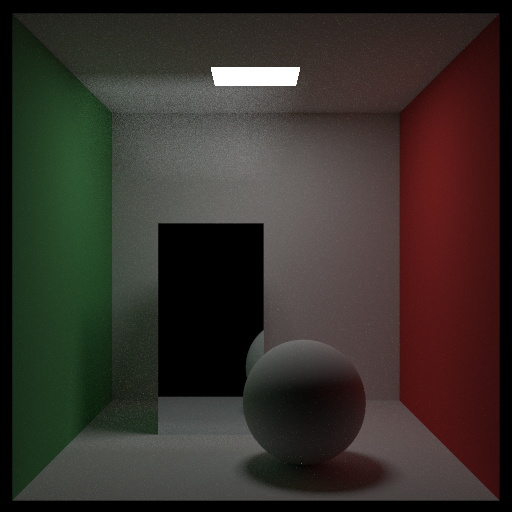
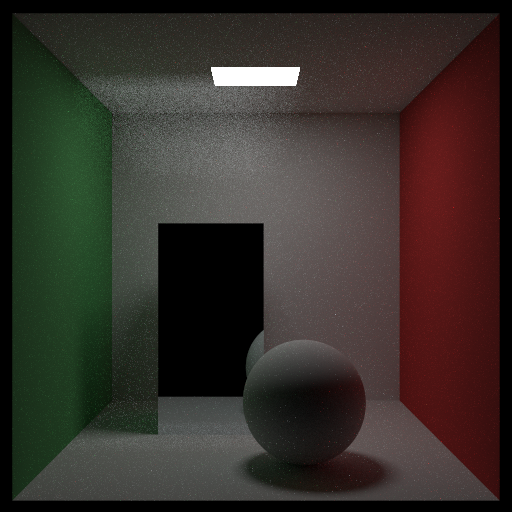
Add image of different samples

Changed region(s): [[0.1875, 0.1562, 0.5312, 0.2812]]

diff --git a/README.md b/README.md
@@ -1,4 +1,11 @@
 # Ray Tracing In One Weekend
 
-### Final Image
-![alt text](https://github.com/Guo-Haowei/RayTracingInOneWeekend/blob/master/image.png)
+## Final Images (Cornell Box)
+
+| 10 samples (1.472 seconds)  | 100 samples (14.327 seconds) |
+| --------- | ------------- |
+| <img src="https://github.com/Guo-Haowei/RayTracingInOneWeekend/blob/master/cornell-box-10-samples.png" width="256"> | <img src="https://github.com/Guo-Haowei/RayTracingInOneWeekend/blob/master/cornell-box-100-samples.png" width="256"> |
+
+| 1000 samples (3.833 minutes)  | 10000 samples (40.249 minutes) |
+| --------- | ------------- |
+| <img src="https://github.com/Guo-Haowei/RayTracingInOneWeekend/blob/master/cornell-box-1000-samples.png" width="256"> | <img src="https://github.com/Guo-Haowei/RayTracingInOneWeekend/blob/master/cornell-box-10000-samples.png" width="256"> |
